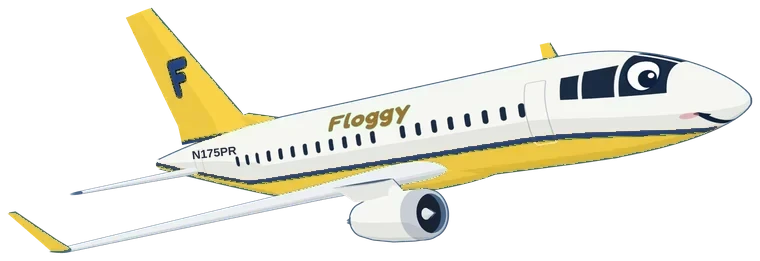
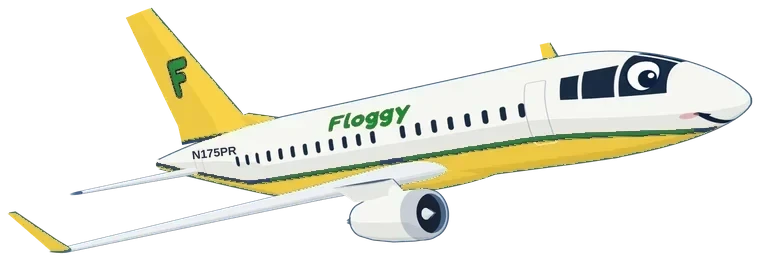
Pairing planes: yellow livery with green accents (title, F, cheatline) on both E175 and Q400
Claude-Session: https://claude.ai/code/session_01NNraJzTUJfaFxwxjGJdiP6

diff --git a/_art/q400-3d/scene.js b/_art/q400-3d/scene.js
@@ -70,7 +70,7 @@ function fuselageTexture() {
   const band = (yfn, color) => { for (const side of [1, -1]) { g.beginPath();
       for (let s = 0; s <= L; s += 0.1) { const th = thAt(s, yfn(s)); const T = side > 0 ? th : Math.PI * 2 - th; s === 0 ? g.moveTo(sx(s), ty(T)) : g.lineTo(sx(s), ty(T)); }
       g.lineTo(sx(L), ty(Math.PI)); g.lineTo(sx(0), ty(Math.PI)); g.closePath(); g.fillStyle = color; g.fill(); } };
-  band(s => lineY(s) + 0.15, AMBER); band(s => lineY(s) + 0.05, WHITE); band(s => lineY(s), LIV);
+  band(s => lineY(s) + 0.15, P.get('acc') || AMBER); band(s => lineY(s) + 0.05, WHITE); band(s => lineY(s), LIV);
   // passenger windows (Q400 row spacing)
   if (P.get('win') !== '0') { g.fillStyle = GLASS;
     for (let s = 6.4; s < 23.4; s += 0.79) { if (Math.abs(s - 11.5) < 0.45) continue;

diff --git a/_art/q400-3d/e175_yellow_green.py b/_art/q400-3d/e175_yellow_green.py
@@ -1,0 +1,43 @@
+import numpy as np
+from PIL import Image
+src = '/home/claude/qxav8r.github.io/img/plane-yellow.webp'
+im = np.array(Image.open(src).convert('RGBA')).astype(np.float32) / 255
+rgb, a = im[..., :3], im[..., 3]
+mx, mn = rgb.max(-1), rgb.min(-1); d = mx - mn; dd = np.where(d > 1e-6, d, 1)
+r, g, b = rgb[..., 0], rgb[..., 1], rgb[..., 2]
+h = np.where(mx == r, ((g - b) / dd) % 6, np.where(mx == g, (b - r) / dd + 2, (r - g) / dd + 4)) * 60; h = np.where(d > 1e-6, h, 0)
+s = np.where(mx > 0, d / np.where(mx > 0, mx, 1), 0); v = mx
+H, W = a.shape; yy, xx = np.mgrid[0:H, 0:W]
+# regions
+fbox = (xx >= 158) & (xx <= 198) & (yy >= 48) & (yy <= 104)
+tbox = (xx >= 322) & (xx <= 414) & (yy >= 100) & (yy <= 136)
+LX = [150, 210, 300, 400, 480, 550, 640, 715]; LY = [168, 172, 172, 170, 160, 146, 135, 128]
+line = np.interp(xx, LX, LY); band = (xx >= 150) & (xx <= 720) & (np.abs(yy - line) <= 5)
+blueish = (h >= 190) & (h <= 250) & (s > 0.12)
+goldish = (h >= 30) & (h <= 62) & (s > 0.15) & (v < 0.85)
+m_f = fbox & blueish; m_t = tbox & goldish
+# cheatline: the navy run sitting just above the yellow belly, column by column
+belly = (h >= 38) & (h <= 56) & (s > 0.5) & (v > 0.8) & (a > 0.9)
+m_l = np.zeros_like(belly)
+blue2 = (h >= 185) & (h <= 260) & (s > 0.05) & (v < 0.82)
+zone = np.zeros_like(belly)
+for x in range(140, 725):
+    col = np.where(belly[110:, x])[0]
+    if not len(col): continue
+    yb = 110 + col[0]; zone[max(yb - 30, 0):yb + 3, x] = True
+cand = (blue2 & zone).astype(np.uint8)
+import cv2
+# keep only horizontally continuous navy (the line), not the short window dashes
+core = cv2.morphologyEx(cand, cv2.MORPH_OPEN, np.ones((1, 9), np.uint8))
+m_l = (cv2.dilate(core, np.ones((3, 3), np.uint8)) > 0) & (blue2 | blueish) & zone
+# target green #2E7D3E: hue 132, keep each pixel's shading relative to its source colour
+def recolor(mask, base_v, base_s):
+    nh = 132.0; ns = np.clip(s / base_s * 0.63, 0, 0.75); nv = np.clip(v / base_v * 0.49, 0, 1)
+    c = nv * ns; x = c * (1 - np.abs((nh / 60) % 2 - 1)); m = nv - c
+    out = np.stack([x + m, c + m, m], -1)  # hue 132 sits in the 120-180 sector: (r,g,b) = (0,c,x)+m
+    out = np.stack([m, c + m, x + m], -1)
+    rgb[mask] = out[mask]
+recolor(m_f, 0.45, 0.66); recolor(m_l, 0.45, 0.66); recolor(m_t, 0.55, 0.53)
+print('pixels', m_f.sum(), m_l.sum(), m_t.sum())
+res = np.dstack([rgb, a]); Image.fromarray((res * 255).round().astype(np.uint8), 'RGBA').save('yellow_green.webp', quality=92)
+bg = Image.new('RGBA', (W, H), (15, 30, 58, 255)); bg.alpha_composite(Image.open('yellow_green.webp')); bg.convert('RGB').resize((W * 2, H * 2), Image.LANCZOS).save('yellow_green.jpg', quality=90)

diff --git a/_art/q400-3d/README.md b/_art/q400-3d/README.md
@@ -32,11 +32,12 @@ Livery colors:
 | purple | `#7835A0` |
 | red | `#AD2F35` |
 | teal | `#2F9399` |
-| yellow | `#F2CC45`, plus `tcol=#22406E&fcol=#FFFFFF` so the title and F stay readable |
+| yellow | `#F2CC45`, with green accents `tcol=#2E7D3E&fcol=#2E7D3E&acc=#2E7D3E` (title, F, cheatline) |
 
 Other knobs, as URL parameters:
 - `ts`, `ty`: title position.
-- `tcol`, `fcol`: title and tail-F colors; they default to the livery color and amber.
+- `tcol`, `fcol`, `acc`: title, tail-F and cheatline colors; they default to the livery color, amber and amber.
+- The yellow E175 gets the same green accents from `e175_yellow_green.py`, which recolors the original art.
 - `es`, `ef`: eye position.
 - `ms`, `mw`, `mc`: smile position, width and curve.
 - `irot`, `io`: inlet swing and offset.
